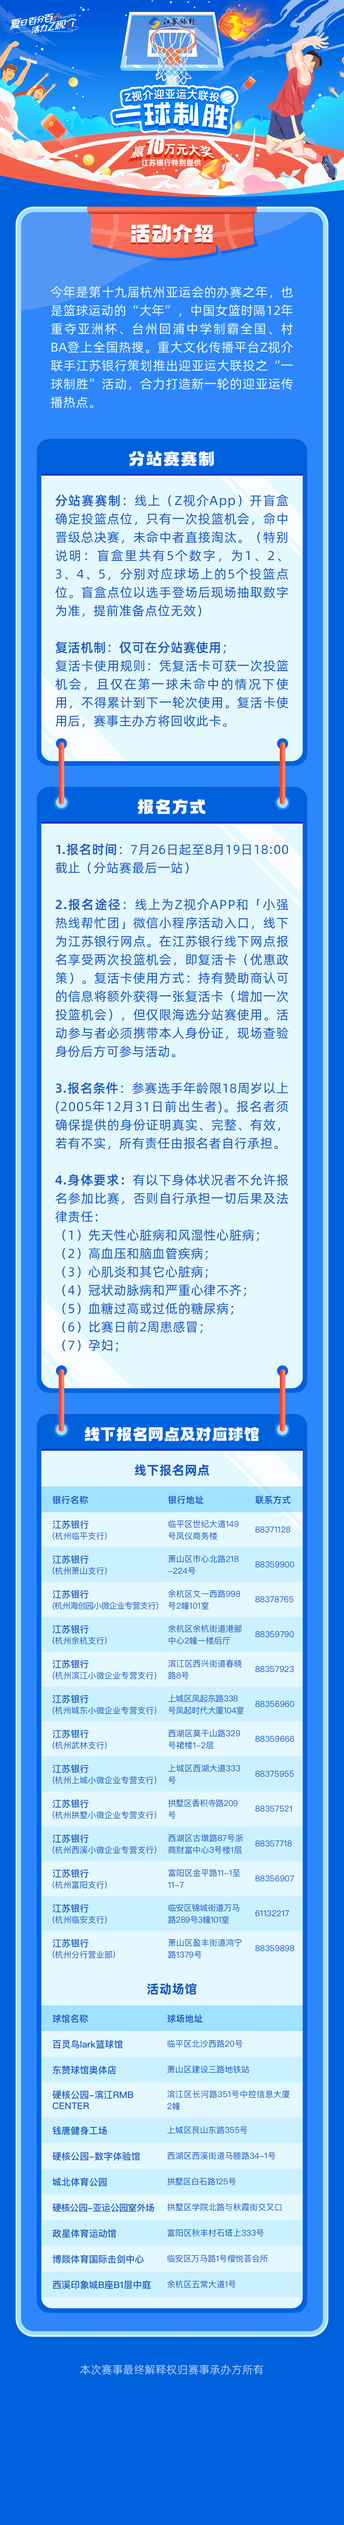
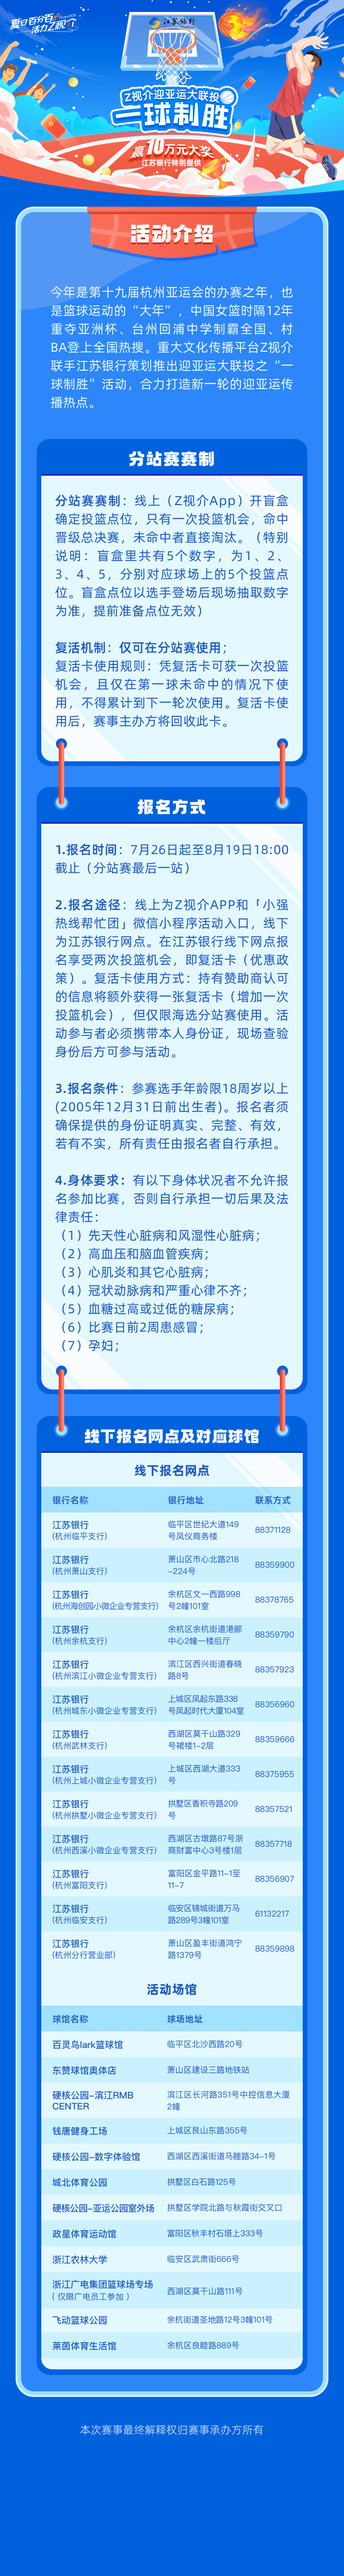
feat: 首页背景

diff --git a/src/views/index/index.vue b/src/views/index/index.vue
@@ -251,10 +251,10 @@ export default defineComponent({
 
   .indexBg {
     background: url(../../assets/indexback.png) no-repeat;
-    background-size: 750px 5500px;
+    background-size: 750px 5610px;
     position: absolute;
     width: 750px;
-    height: 5500px;
+    height: 5610px;
     left: 0%;
   }
 
